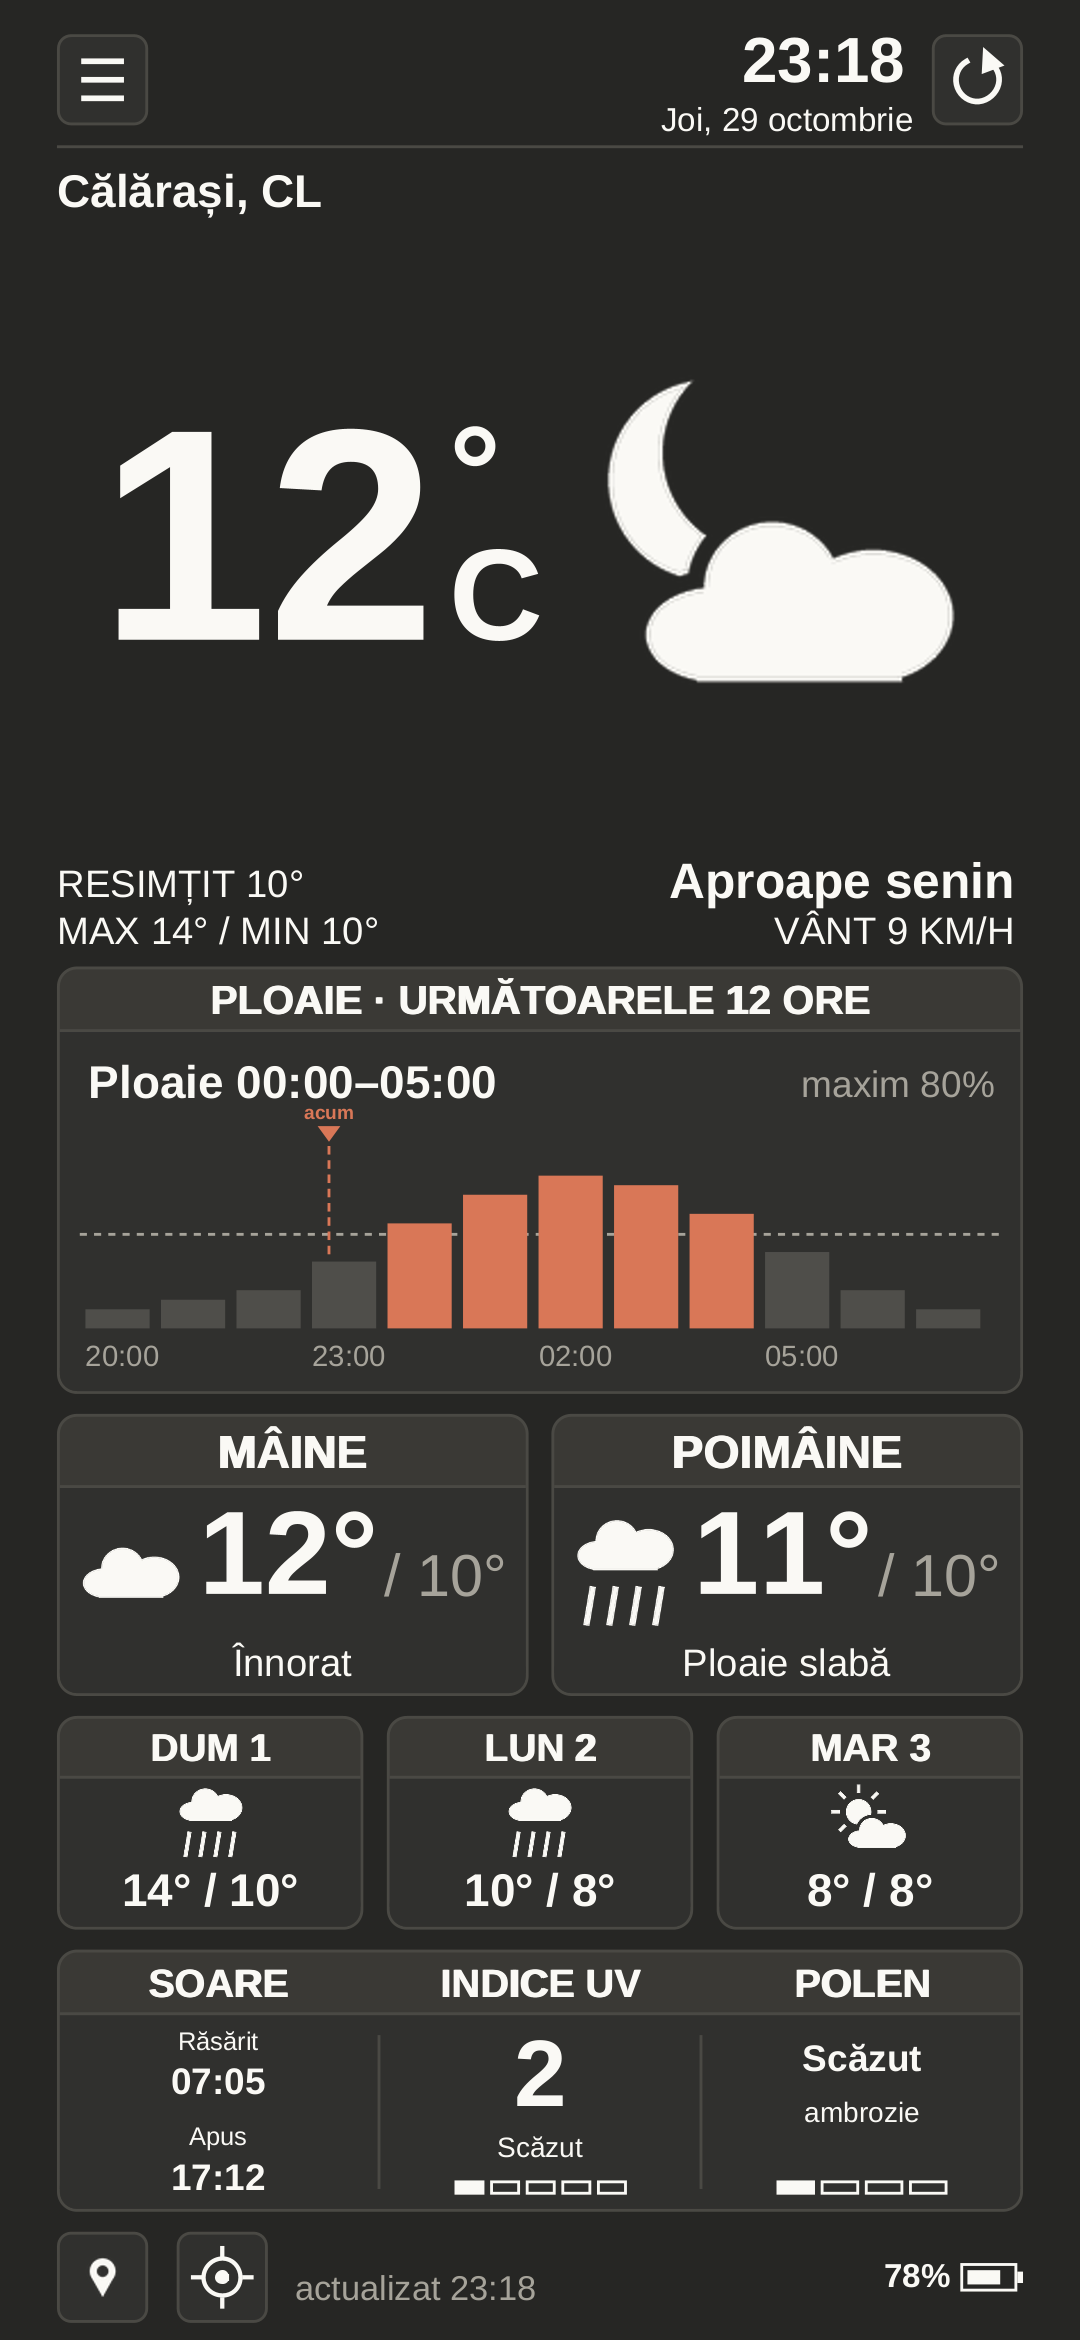
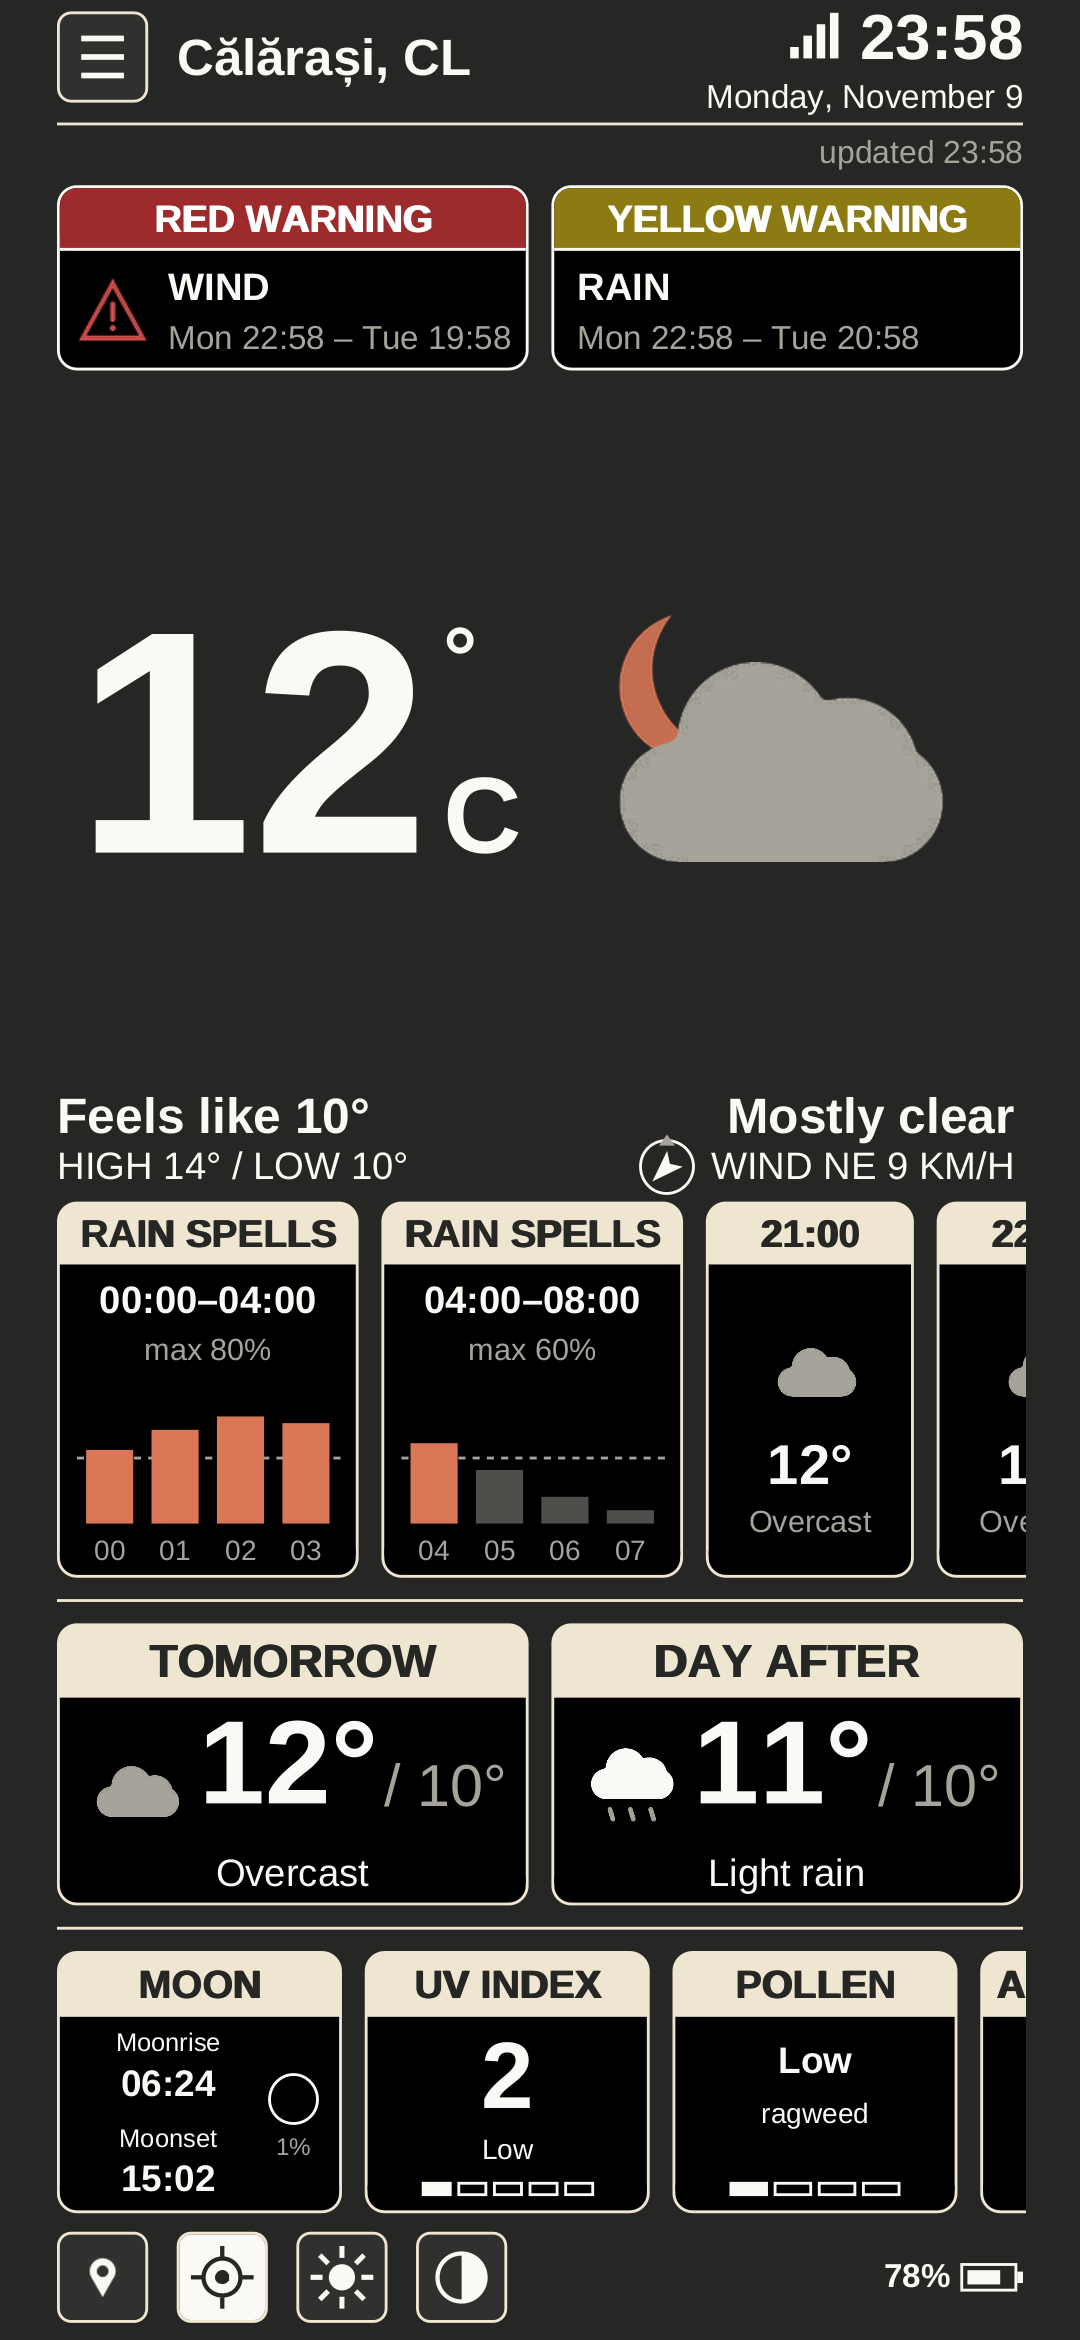
README: new v4.00 screens in English; preview ' en' also switches Tr to English
Claude-Session: https://claude.ai/code/session_01SZUK67Y5bw6FgFqEV6AhFk

diff --git a/preview/ro/meteoalarm/android/preview/Preview.java b/preview/ro/meteoalarm/android/preview/Preview.java
@@ -168,7 +168,7 @@ public final class Preview {
 			ro.meteoalarm.android.core.Tr.set(lg, lf.exists() ? new String(Files.readAllBytes(lf.toPath()), "UTF-8") : null);
 			s.T = new Texts(lg);
 		} else
-		s.T = new Texts(opts.contains(" en"));
+		{ if (opts.contains(" en")) ro.meteoalarm.android.core.Tr.set("en", null); s.T = new Texts(opts.contains(" en")); }
 		s.unitF = opts.contains(" F") || (usa && !opts.contains(" metric"));
 		s.clk12 = opts.contains(" 12h") || (usa && !opts.contains(" metric"));
 		s.dark = opts.contains(" dark");

diff --git a/README.md b/README.md
@@ -7,13 +7,13 @@ Kindle and laid out for a tall screen (made for a Samsung Galaxy A54, 1080x2340)
 Kindle: Open-Meteo (DWD ICON) forecast, MeteoAlarm warnings for the county, pollen, sun and UV.
 
 <p>
-  <img src="docs/preview-a54.png" width="45%" alt="Light theme, like the Kindle">
-  <img src="docs/preview-a54-dark.png" width="45%" alt="Dark theme, Claude app colours">
+  <img src="docs/preview-a54.png" width="45%" alt="Light theme (Sky palette), v4.00">
+  <img src="docs/preview-a54-dark.png" width="45%" alt="Dark theme (Lavender palette), v4.00">
 </p>
 
-![Landscape, dark theme](docs/preview-a54-landscape-dark.png)
+![Landscape, dark theme (Sage palette), v4.00](docs/preview-a54-landscape-dark.png)
 
-*PC previews drawn by the same code with sample data (`./build.sh preview [dark] [land] [dry] [warn]`).*
+*v4.00 screens in English, PC previews drawn by the same code with sample data (`./build.sh preview [dark] [land] [dry] [warn]`).*
 
 **Project evolution:** [docs/MeteoAlarmAndroid-evolution.pdf](docs/MeteoAlarmAndroid-evolution.pdf), a diagram of what each version added, from v0.1 to v1.71.
 
